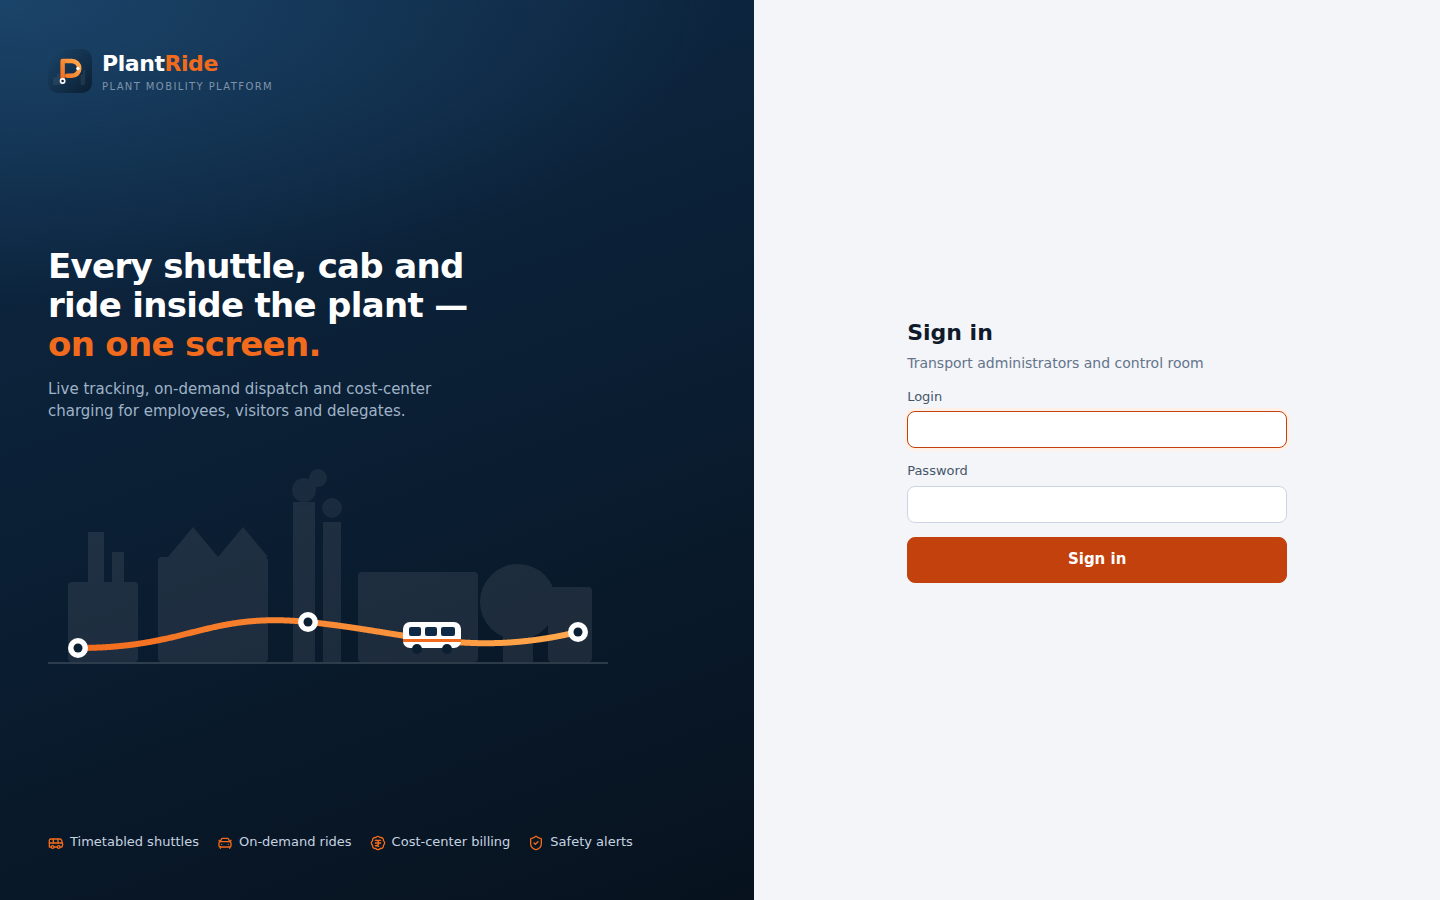
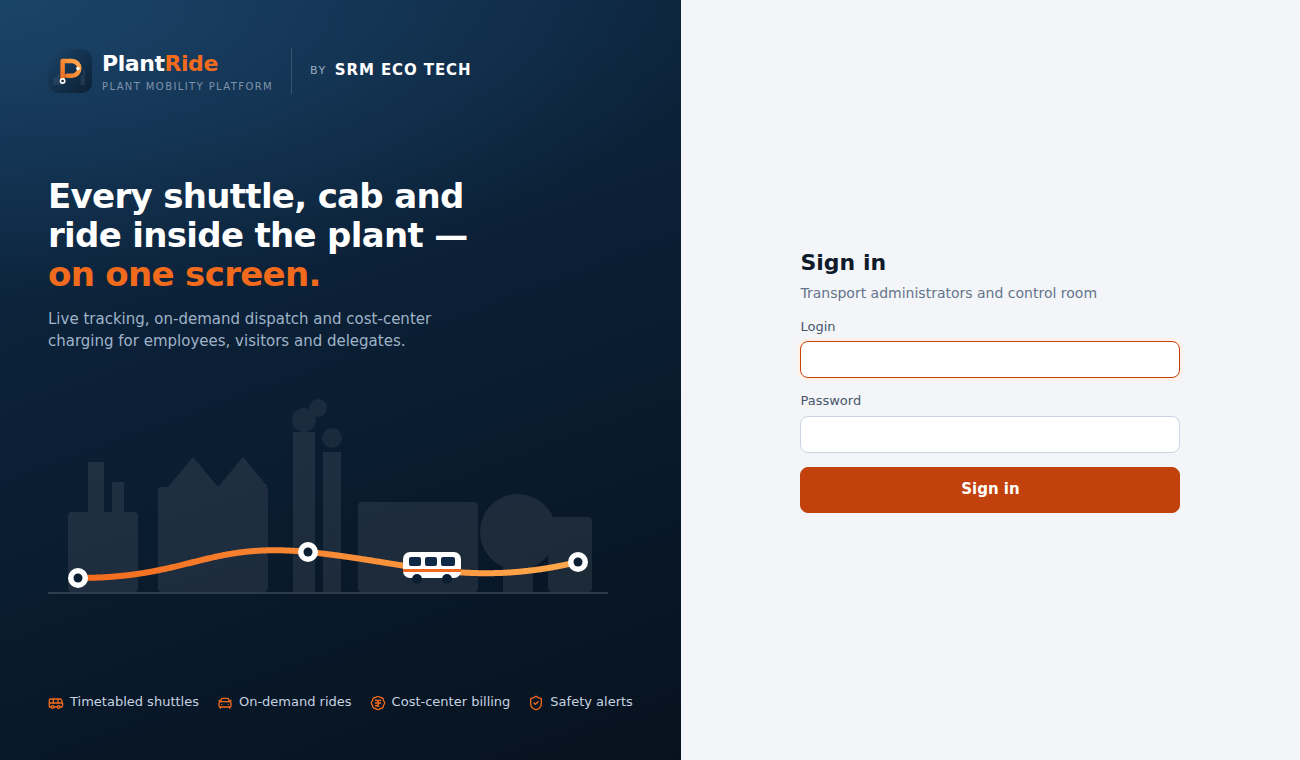
Co-brand as "Plant-Ride by SRM Eco Tech"
- Partner credit on admin login and sidebar footer, mobile login and
  loading screens; Plant-Ride mark stays on app icons
- Shows the partner name as text until the official SRM Eco Tech
  artwork is installed; admin web picks up /partner-logo.png
  automatically, mobile apps via one constant (brand/partner/README.md)
- Partner name/logo configurable (VITE_PARTNER_NAME/LOGO, PARTNER_*)

Claude-Session: https://claude.ai/code/session_01CBn3RFodc4aXAeFMfap7Zb

diff --git a/admin-web/src/styles.css b/admin-web/src/styles.css
@@ -315,3 +315,15 @@ button.icon:hover:not(:disabled) { background: var(--surface-hover); border-colo
   content: ''; position: absolute; left: 6px; top: 15px; bottom: -3px; width: 2px; background: var(--brand-orange); opacity: 0.45;
 }
 .stop-line .muted { font-size: 12px; margin-left: 4px; }
+
+/* ===================================================================== Partner co-brand */
+.partner-credit { display: inline-flex; align-items: center; gap: 8px; }
+.partner-credit img { display: block; width: auto; max-width: 160px; object-fit: contain; }
+.partner-by { font-size: 11px; text-transform: uppercase; letter-spacing: 0.14em; opacity: 0.75; }
+.partner-name { font-weight: 800; letter-spacing: 0.06em; text-transform: uppercase; }
+.partner-credit.dark { color: #c6d3e1; }
+.partner-credit.dark .partner-name { color: #ffffff; }
+.partner-credit.light { color: var(--muted); }
+.partner-credit.light .partner-name { color: var(--text); }
+.partner-credit.sm .partner-name { font-size: 12px; }
+.partner-credit.md .partner-name { font-size: 15px; }

diff --git a/admin-web/src/components/PartnerCredit.tsx b/admin-web/src/components/PartnerCredit.tsx
@@ -1,0 +1,23 @@
+import { useState } from 'react';
+
+const PARTNER_NAME = import.meta.env.VITE_PARTNER_NAME || 'SRM Eco Tech';
+const PARTNER_LOGO = import.meta.env.VITE_PARTNER_LOGO || '/partner-logo.png';
+
+/**
+ * "by SRM Eco Tech" co-brand credit. Shows the partner's logo when brand/partner artwork has been
+ * installed (see brand/partner/README.md), otherwise the partner name as text.
+ */
+export function PartnerCredit({ tone = 'dark', size = 'md' }: { tone?: 'dark' | 'light'; size?: 'sm' | 'md' }) {
+  const [logoFailed, setLogoFailed] = useState(false);
+  const height = size === 'sm' ? 22 : 30;
+  return (
+    <div className={`partner-credit ${tone} ${size}`}>
+      <span className="partner-by">by</span>
+      {logoFailed ? (
+        <span className="partner-name">{PARTNER_NAME}</span>
+      ) : (
+        <img src={PARTNER_LOGO} alt={PARTNER_NAME} style={{ height }} onError={() => setLogoFailed(true)} />
+      )}
+    </div>
+  );
+}

diff --git a/driver-app/src/components/PartnerCredit.tsx b/driver-app/src/components/PartnerCredit.tsx
@@ -1,0 +1,18 @@
+import { Image, Text, View } from 'react-native';
+import { PARTNER_LOGO, PARTNER_NAME } from '../brand/partner';
+
+/** "by SRM Eco Tech" credit for dark (navy) backgrounds: login and loading screens. */
+export function PartnerCredit() {
+  return (
+    <View style={{ flexDirection: 'row', alignItems: 'center', gap: 8 }} accessibilityLabel={`by ${PARTNER_NAME}`}>
+      <Text style={{ color: '#9FB3C8', fontSize: 11, letterSpacing: 1.6, textTransform: 'uppercase' }}>by</Text>
+      {PARTNER_LOGO ? (
+        <Image source={PARTNER_LOGO} style={{ height: 28, width: 120 }} resizeMode="contain" accessibilityLabel={PARTNER_NAME} />
+      ) : (
+        <Text style={{ color: '#FFFFFF', fontSize: 14, fontWeight: '800', letterSpacing: 1.2, textTransform: 'uppercase' }}>
+          {PARTNER_NAME}
+        </Text>
+      )}
+    </View>
+  );
+}

diff --git a/user-app/src/components/PartnerCredit.tsx b/user-app/src/components/PartnerCredit.tsx
@@ -1,0 +1,18 @@
+import { Image, Text, View } from 'react-native';
+import { PARTNER_LOGO, PARTNER_NAME } from '../brand/partner';
+
+/** "by SRM Eco Tech" credit for dark (navy) backgrounds: login and loading screens. */
+export function PartnerCredit() {
+  return (
+    <View style={{ flexDirection: 'row', alignItems: 'center', gap: 8 }} accessibilityLabel={`by ${PARTNER_NAME}`}>
+      <Text style={{ color: '#9FB3C8', fontSize: 11, letterSpacing: 1.6, textTransform: 'uppercase' }}>by</Text>
+      {PARTNER_LOGO ? (
+        <Image source={PARTNER_LOGO} style={{ height: 28, width: 120 }} resizeMode="contain" accessibilityLabel={PARTNER_NAME} />
+      ) : (
+        <Text style={{ color: '#FFFFFF', fontSize: 14, fontWeight: '800', letterSpacing: 1.2, textTransform: 'uppercase' }}>
+          {PARTNER_NAME}
+        </Text>
+      )}
+    </View>
+  );
+}

diff --git a/driver-app/src/app/login.tsx b/driver-app/src/app/login.tsx
@@ -4,6 +4,7 @@ import { useState } from 'react';
 import { KeyboardAvoidingView, Platform, ScrollView, Text, View } from 'react-native';
 import { SafeAreaView } from 'react-native-safe-area-context';
 import { LogoMark } from '../components/Logo';
+import { PartnerCredit } from '../components/PartnerCredit';
 import { Button, Card, ErrorText, Field, T } from '../components/ui';
 import { useAuth } from '../lib/auth';
 
@@ -41,6 +42,7 @@ export default function Login() {
               <View style={{ backgroundColor: '#F26B1D', borderRadius: 999, paddingHorizontal: 12, paddingVertical: 4 }}>
                 <Text style={{ color: '#0B1F33', fontWeight: '800', letterSpacing: 2, fontSize: 12 }}>DRIVER</Text>
               </View>
+              <PartnerCredit />
             </View>
             <Card>
               <T variant="title">Sign in</T>

diff --git a/admin-web/src/App.tsx b/admin-web/src/App.tsx
@@ -21,6 +21,7 @@ import {
 } from 'lucide-react';
 import { NavLink, Navigate, Outlet, Route, Routes } from 'react-router-dom';
 import { useAuth } from './auth';
+import { PartnerCredit } from './components/PartnerCredit';
 import { useApi } from './hooks';
 import { DashboardPage } from './pages/DashboardPage';
 import { LoginPage } from './pages/LoginPage';
@@ -131,7 +132,10 @@ function Layout() {
             </div>
           );
         })}
-        <div className="sidebar-footer">Plant-Ride · v0.1 pilot</div>
+        <div className="sidebar-footer">
+          <PartnerCredit size="sm" />
+          <div style={{ marginTop: 6 }}>Plant-Ride · v0.1 pilot</div>
+        </div>
       </nav>
       <div className="main">
         <header className="topbar">

diff --git a/user-app/src/app/login.tsx b/user-app/src/app/login.tsx
@@ -4,6 +4,7 @@ import { useState } from 'react';
 import { KeyboardAvoidingView, Platform, ScrollView, Text, View } from 'react-native';
 import { SafeAreaView } from 'react-native-safe-area-context';
 import { LogoMark } from '../components/Logo';
+import { PartnerCredit } from '../components/PartnerCredit';
 import { Button, Card, ErrorText, Field, T } from '../components/ui';
 import { useAuth } from '../lib/auth';
 
@@ -41,6 +42,7 @@ export default function Login() {
               <Text style={{ color: '#9FB3C8', fontSize: 15, textAlign: 'center' }}>
                 Shuttles and rides inside the plant
               </Text>
+              <PartnerCredit />
             </View>
             <Card>
               <T variant="title">Sign in</T>

diff --git a/driver-app/src/app/_layout.tsx b/driver-app/src/app/_layout.tsx
@@ -2,6 +2,7 @@ import { Stack } from 'expo-router';
 import { StatusBar } from 'expo-status-bar';
 import { ActivityIndicator, View } from 'react-native';
 import { LogoMark } from '../components/Logo';
+import { PartnerCredit } from '../components/PartnerCredit';
 import { AuthProvider, useAuth } from '../lib/auth';
 
 /** Screens fetch on mount, so they must not render before the stored session has been restored. */
@@ -12,6 +13,7 @@ function Navigator() {
       <View style={{ flex: 1, alignItems: 'center', justifyContent: 'center', gap: 24, backgroundColor: '#0B1F33' }}>
         <LogoMark size={88} variant="driver" />
         <ActivityIndicator color="#F26B1D" />
+        <PartnerCredit />
       </View>
     );
   }

diff --git a/user-app/src/app/_layout.tsx b/user-app/src/app/_layout.tsx
@@ -2,6 +2,7 @@ import { Stack } from 'expo-router';
 import { StatusBar } from 'expo-status-bar';
 import { ActivityIndicator, View } from 'react-native';
 import { LogoMark } from '../components/Logo';
+import { PartnerCredit } from '../components/PartnerCredit';
 import { AuthProvider, useAuth } from '../lib/auth';
 
 /** Screens fetch on mount, so they must not render before the stored session has been restored. */
@@ -12,6 +13,7 @@ function Navigator() {
       <View style={{ flex: 1, alignItems: 'center', justifyContent: 'center', gap: 24, backgroundColor: '#0B1F33' }}>
         <LogoMark size={88} />
         <ActivityIndicator color="#F26B1D" />
+        <PartnerCredit />
       </View>
     );
   }

diff --git a/admin-web/src/pages/LoginPage.tsx b/admin-web/src/pages/LoginPage.tsx
@@ -3,6 +3,7 @@ import { FormEvent, useState } from 'react';
 import { Navigate } from 'react-router-dom';
 import { useAuth } from '../auth';
 import { PlantIllustration } from '../components/Illustration';
+import { PartnerCredit } from '../components/PartnerCredit';
 
 export function LoginPage() {
   const { session, login } = useAuth();
@@ -37,6 +38,8 @@ export function LoginPage() {
             </div>
             <div className="brand-sub">Plant mobility platform</div>
           </div>
+          <span style={{ width: 1, alignSelf: 'stretch', background: 'rgba(255,255,255,0.15)', margin: '0 8px' }} />
+          <PartnerCredit />
         </div>
         <div>
           <h1>

diff --git a/driver-app/src/brand/partner.ts b/driver-app/src/brand/partner.ts
@@ -1,0 +1,10 @@
+import { ImageSourcePropType } from 'react-native';
+
+/** Co-brand partner shown as "by <partner>". See brand/partner/README.md in the repository. */
+export const PARTNER_NAME = 'SRM Eco Tech';
+
+/**
+ * Set to require('../../assets/partner-logo.png') once the official SRM Eco Tech artwork (light version for dark
+ * backgrounds) is copied into assets/. Until then the name is shown as text.
+ */
+export const PARTNER_LOGO: ImageSourcePropType | null = null;

diff --git a/user-app/src/brand/partner.ts b/user-app/src/brand/partner.ts
@@ -1,0 +1,10 @@
+import { ImageSourcePropType } from 'react-native';
+
+/** Co-brand partner shown as "by <partner>". See brand/partner/README.md in the repository. */
+export const PARTNER_NAME = 'SRM Eco Tech';
+
+/**
+ * Set to require('../../assets/partner-logo.png') once the official SRM Eco Tech artwork (light version for dark
+ * backgrounds) is copied into assets/. Until then the name is shown as text.
+ */
+export const PARTNER_LOGO: ImageSourcePropType | null = null;
